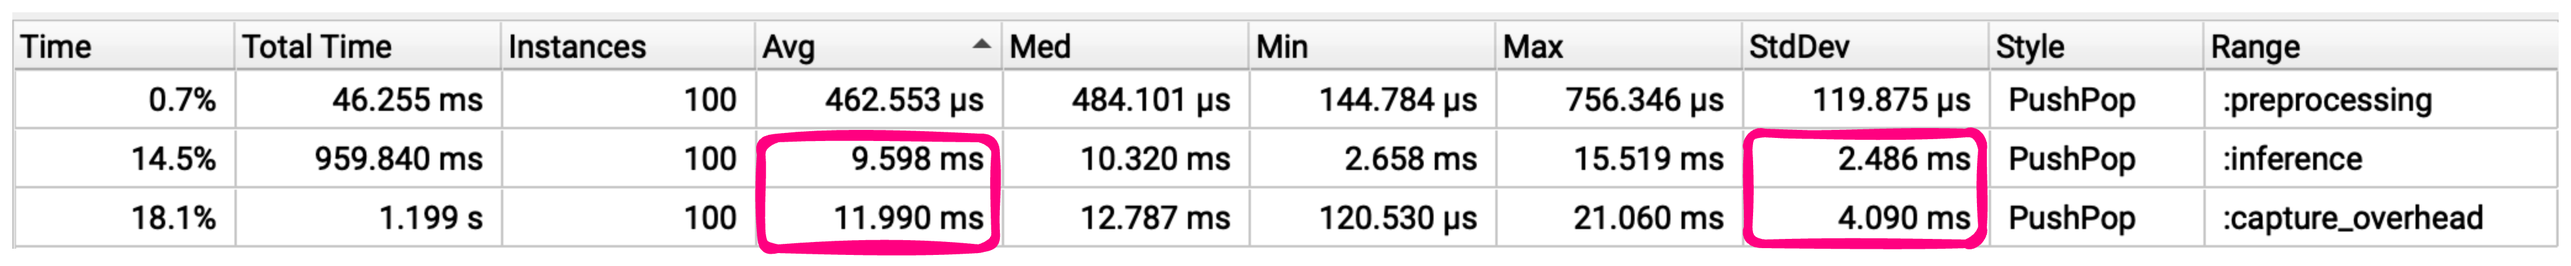
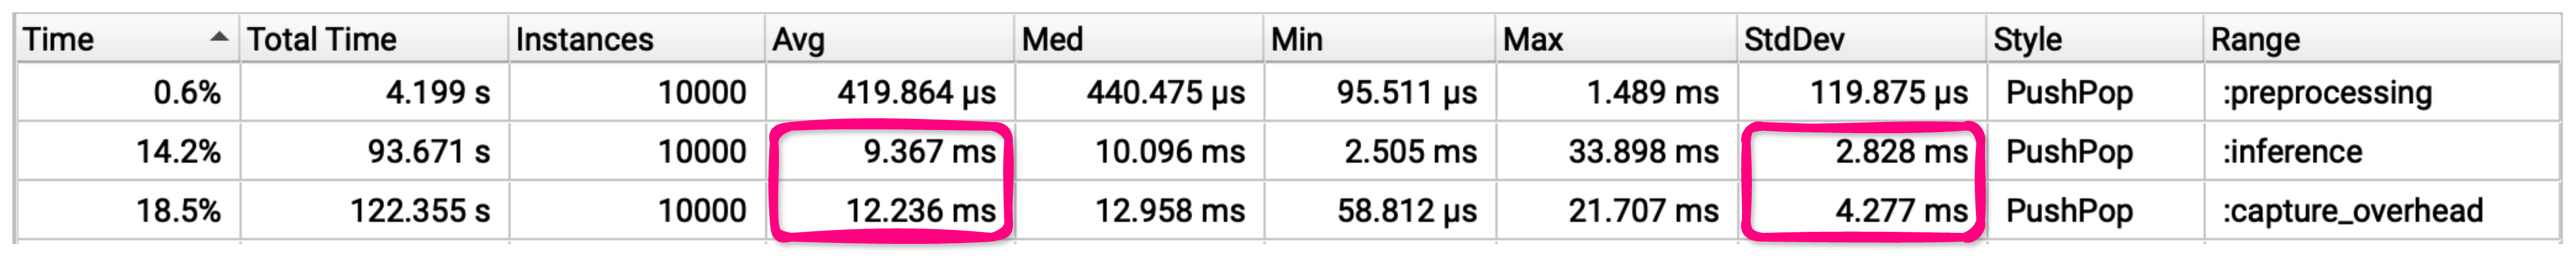
updating optim inference section

Changed region(s): [[0.0, 0.3023, 0.9981, 0.9674], [0.0, 0.0302, 0.9981, 0.2721], [0.1248, 0.3023, 0.2183, 0.4233]]

diff --git a/projects/vision-rt.md b/projects/vision-rt.md
@@ -52,6 +52,13 @@ permalink: /projects/vision-rt/
   .figure img {
     max-width: 100%;
   }
+  .figure img.large {
+    max-width: none;
+    display: block;
+    position: relative;
+    left: 50%;
+    transform: translateX(-50%);
+  }
   .figure-caption {
     font-size: 14px !important;
     color: #666;
@@ -77,7 +84,7 @@ In our benchmarks, Vision-RT accelerated image classification pipeline by over *
 
 
 <div class="figure">
-  <img src="/images/vision-rt/vision-rt.png" alt="Zero overhead">
+  <img src="/images/vision-rt/vision-rt2.png" alt="Zero overhead">
   <p class="figure-caption">Fig. 1: VisionRT fits within the 90 FPS frame budget. The standard pipeline overruns, dropping to ~40 FPS.</p>
 </div>
 
@@ -93,7 +100,7 @@ The pipeline is split into 3 stages:
 - **Preprocessing** - Creating a PyTorch-compatible tensor.
 - **Inference**-  ResNet50's forward propagation.
 
-These stages are abstracted in the following code:
+These stages are abstracted in the following profiled code:
 ```python
 @nvtx.annotate("standard", color="blue")
 def run_standard(cap, model):
@@ -107,18 +114,20 @@ def run_standard(cap, model):
     return True
 ```
 
-After profiling 100 samples post-warmup, `nsys` shows that `Capture` and `Inference` dominate the latency with an average of 11.9 ms and 9.5 ms respectivley.
+After profiling 10K samples post-warmup, `nsys` shows that `Capture` and `Inference` dominate the latency with an average of 12.2 ms and 9.4 ms respectively.
 
 <div class="figure">
-  <img src="/images/vision-rt/profile_stats1.png" alt="Infernce profile overview">
+  <img src="/images/vision-rt/profile_stats1.png" alt="Infernce profile overview" width=2068 height=195>
   <p class="figure-caption">Fig. 2: Result of profiling with nsys and nvtx </p>
 </div>
 
 In `Fig. 2` we also observe that both stages have a large standard deviation which is concerning for systems that require real-time guarantees.
 
-For `inference`, this variance can be attributed to the non-deterministic nature of GPU scheduling, where the GPU's hardware schedulers dynamically assign threads and warps to execution units based on resource availability. This dynamic behavior introduces jitter.
+For `Inference`, this variance can be attributed to the non-deterministic nature of GPU scheduling, where the GPU's hardware schedulers dynamically assign threads and warps to execution units based on resource availability. This dynamic behavior introduces jitter.
 
-Let's take a closer look into `inference` for ResNet50 ...
+Let's take a closer look into `Inference` ...
+
+## Optimizing Inference
 
 ```python
 @nvtx.annotate("inference", color="red")
@@ -130,11 +139,11 @@ def inference(tensor, model):
 Here we zoom into a single `Inference` sample on the profiler:
 
 <div class="figure">
-  <img src="/images/vision-rt/inference_profile1.png" alt="Infernce profile overview">
-  <p class="figure-caption">Fig. 3: An annotated view of ResNet50 inference on nsys's profiler</p>
+  <img src="/images/vision-rt/inference_profile1.png" alt="Inference profile overview" width=734 height=512>
+  <p class="figure-caption">Fig. 3: An annotated view of ResNet50 Inference on nsys's profiler</p>
 </div>
 
-`Fig 3` shows how the profiler looks for every GPU kernel executed. For each kernel the follow work must be done. 
+`Fig 3` is how the profiler looks for every GPU kernel executed. For each kernel the following work must be done. 
 
 1. **CPU work** – Framework overhead and CPU computation before launch.
 2. **Kernel Launch** – CPU enqueues kernel into CUDA stream.
@@ -142,12 +151,47 @@ Here we zoom into a single `Inference` sample on the profiler:
 4. **Kernel Execution** – GPU performs computation asynchronously.
 5. **Synchronization** (if needed) – Host blocks on CUDA sync or blocking API call.
 
-We can minimize the overhead and jitter surrounding kernel execution by capturing the CUDA graph and replaying it each iteration, as long as the shapes and computation remain static.
- 
-TODO: show snippet for cuda graph capture. and then hand made visual for a before and after graph capture. then introduce what torch.compile can do. show mlir before and after. then show code snippet. after results of the inference.
+We can minimize the overhead and jitter surrounding kernel execution by capturing the [CUDA graph](https://pytorch.org/blog/accelerating-pytorch-with-cuda-graphs/) and replaying it each iteration with a single kernel launch as long as the shapes and computation remain static. 
+
+Here we record the computational graph of the forward function `fn` from PyTorch's default CUDA stream.
+
+```cpp
+cudaStreamBeginCapture(stream, cudaStreamCaptureModeGlobal);
+{
+    c10::cuda::CUDAStream capture_stream = c10::cuda::getStreamFromExternal(stream, 0);
+    c10::cuda::CUDAStreamGuard guard(capture_stream);
     
+    out.copy_(fn(in).cast<torch::Tensor>());
+}
+cudaStreamEndCapture(stream, &graph);
+```
+
+ Ideally, this will eliminate the white space inbetween each `Kernel Execution` in `Fig 3`, for example we illustrate this idea below:
+
+<div class="figure">
+  <img src="/images/vision-rt/graph2.png" alt="CUDA graph drawing" class="large" width="1100">
+  <p class="figure-caption">Fig. 4: Conceptual illustration to show the benefit of CUDA graphs.</p>
+</div>
+
+`Communication` refers to the overhead/ latency of CPU-GPU coordination. `Fig. 4` demonstrates how graph capture and replay eliminates communication between each operation, significantly reducing end-to-end latency.
+
+The table below highlights the significant drop in inference times achieved with this optimization:
+
+<div class="figure">
+  <img src="/images/vision-rt/profile_stats2.png" alt="Infernce profile overview" width=2068 height=195>
+  <p class="figure-caption">Fig. 5: Result of profiling post CUDA graph optimization with nsys and nvtx</p>
+</div>
+
+With CUDA graph optimization, the average inference latency drops from 9.4 ms to just 1.35 ms. Inference times are also much more predictable, the standard deviation has decreased dramatically from 2.8 ms to only 81 microseconds!
+
+Now that inference is no longer a bottleneck lets tackle capture overhead.
+
+## Optimizing Capture Overhead
+  
+TODO
+
 ## Surprisingly Deterministic
 <div class="figure">
   <img src="/images/vision-rt/latency_kde.png" alt="Deterministic Latency">
-  <p class="figure-caption">Fig. 3: VisionRT achieves deterministic sub-12ms latency while OpenCV varies unpredictably from 20-30ms</p>
+  <p class="figure-caption">Fig. 6: VisionRT achieves deterministic sub-12ms latency while OpenCV varies unpredictably from 20-30ms</p>
 </div>
